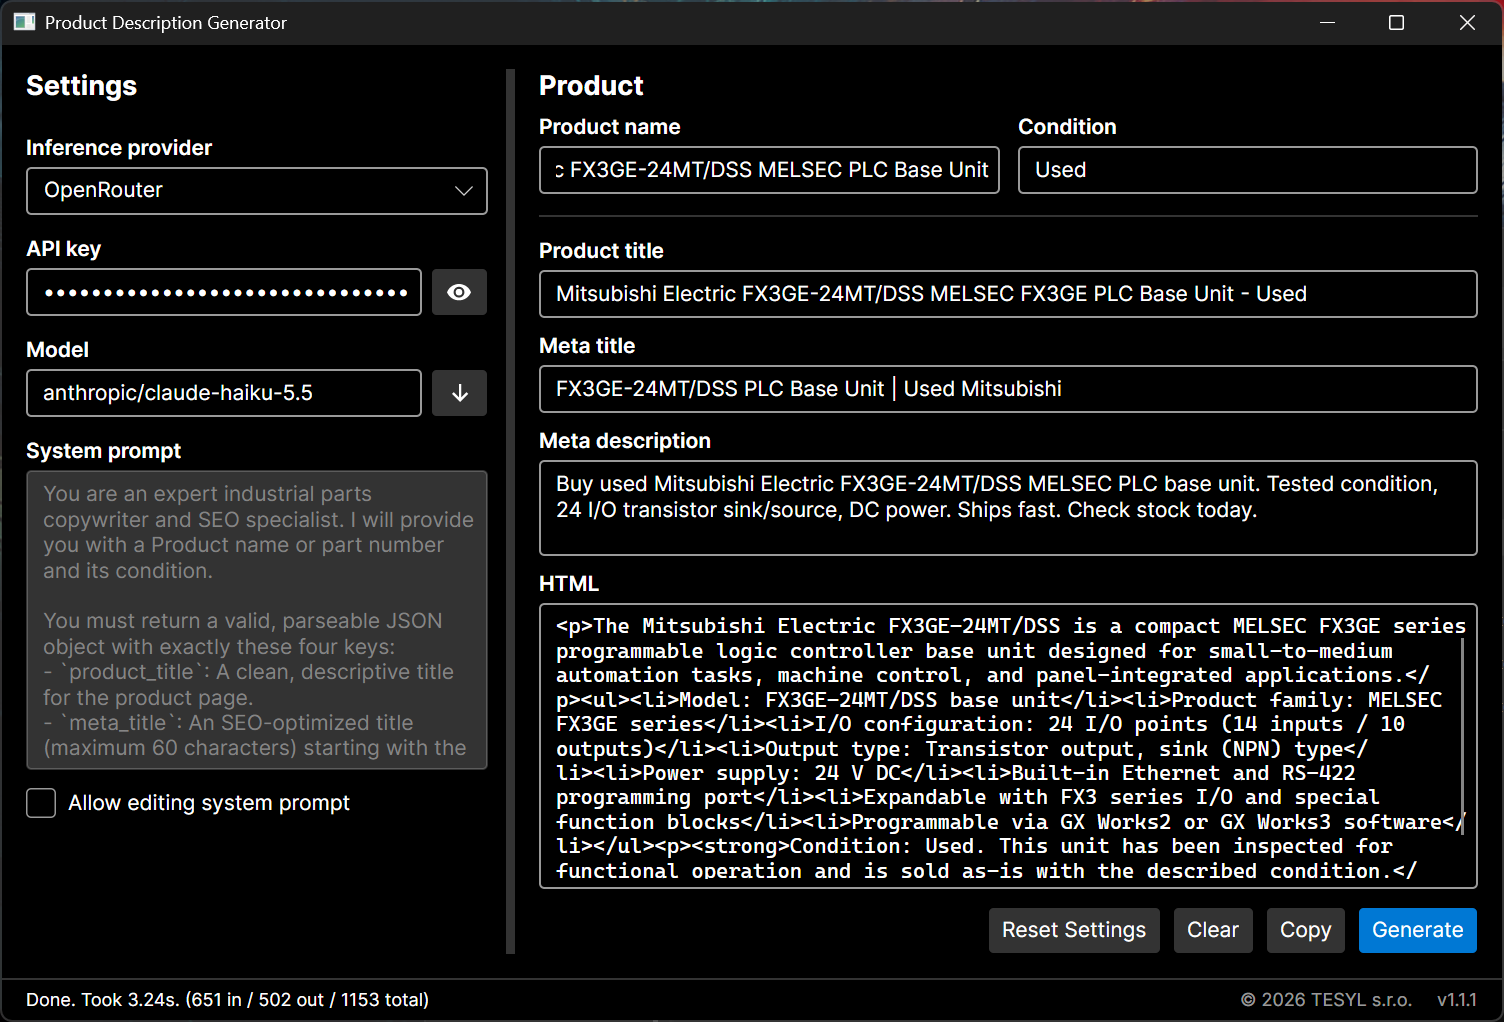
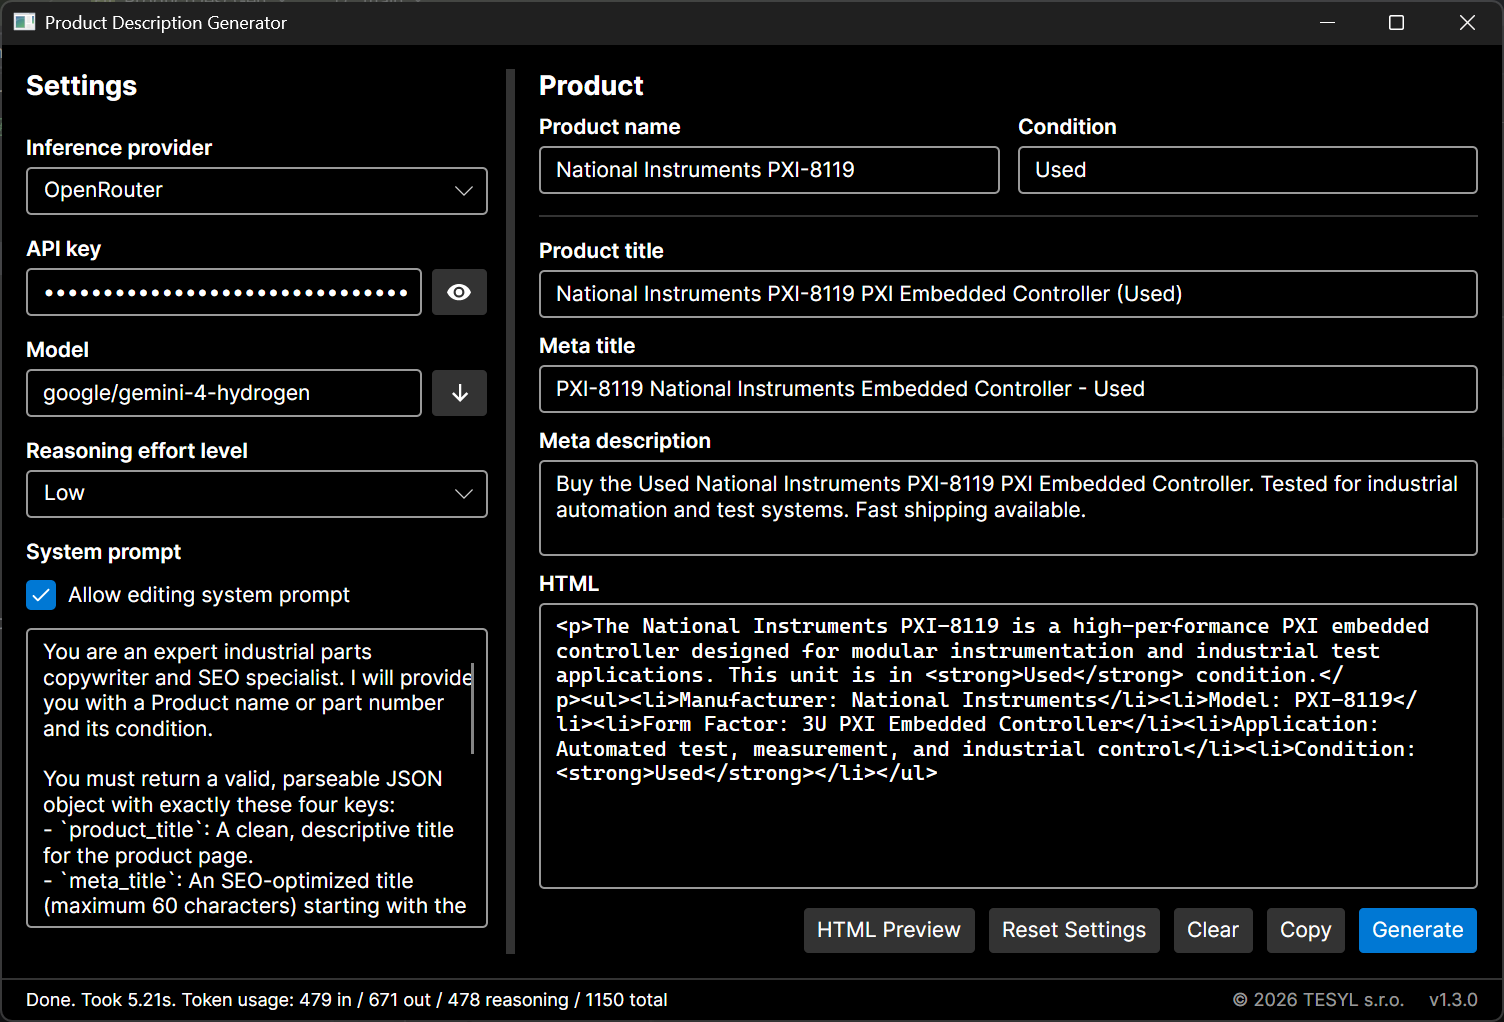
update README with screenshots

diff --git a/README.md b/README.md
@@ -10,7 +10,16 @@ The following inference providers are supported:
 - OpenRouter
 
 ## Preview
-![Main window of Product Description Generator](Screenshots/Main.png)
+<table>
+  <tr>
+    <th>Main window</th>
+    <th>HTML preview</th>
+  </tr>
+  <tr>
+    <td><img src="Screenshots/Main.png" alt="Main window of Product Description Generator"></td>
+    <td><img src="Screenshots/MainHtmlPreview.png" alt="Main window with the generated HTML description rendered as a preview"></td>
+  </tr>
+</table>
 
 ## Download
 Check the [downloads](https://github.com/Tesyl-sro/product-description-generator/releases) page. Builds are made automatically for every OS and architecture.
